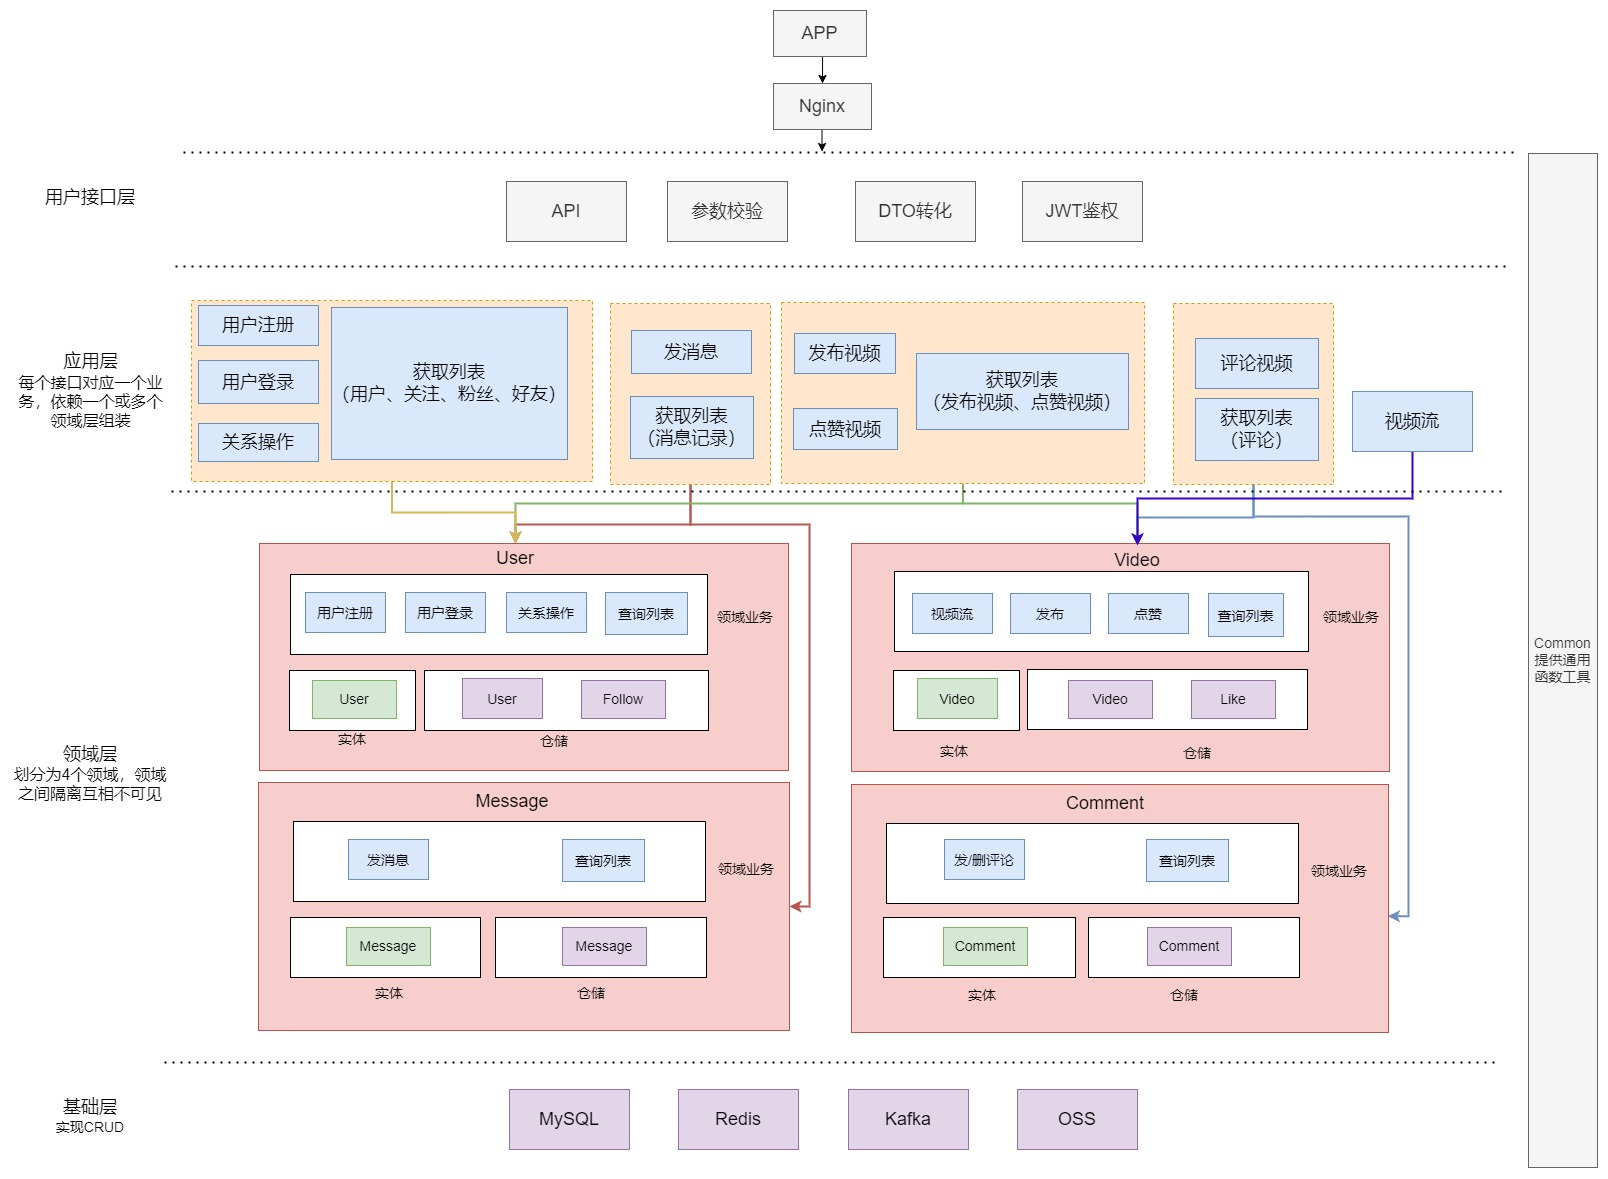
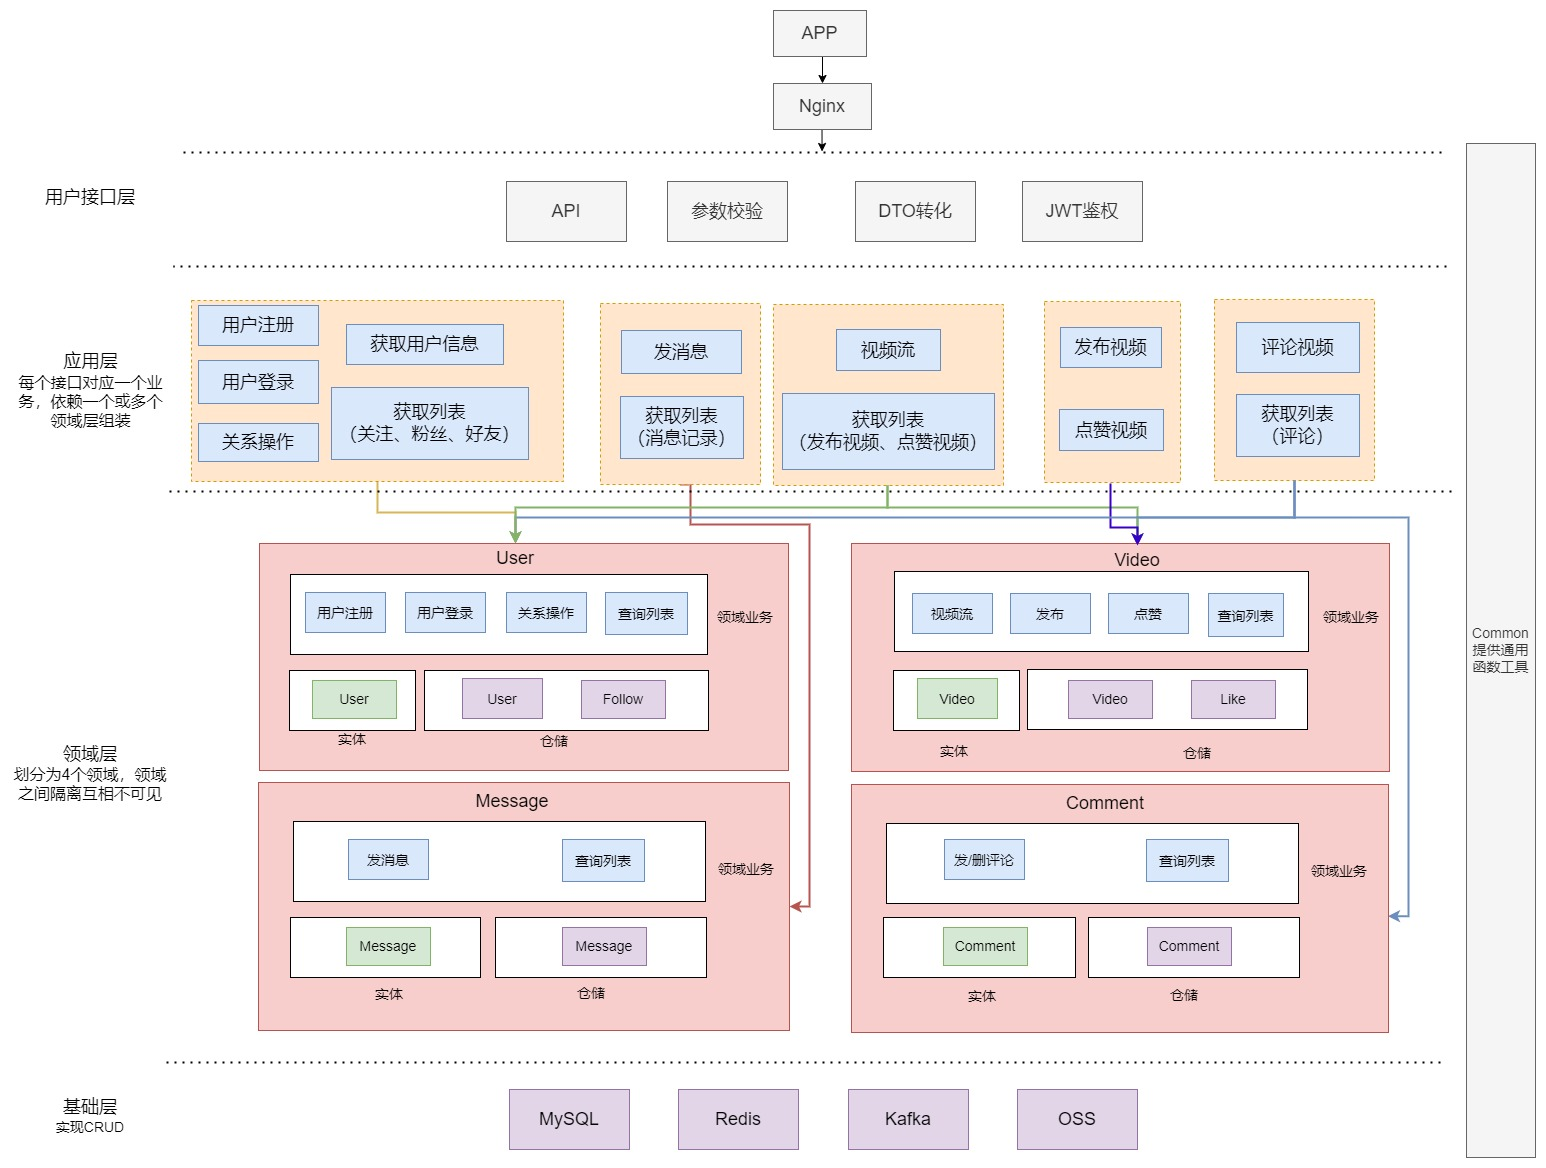
app层接口定义

diff --git a/application/userAppService.go b/application/userAppService.go
@@ -7,5 +7,11 @@ import (
 
 type UserAppService interface {
 	GetUser(c *gin.Context, appUserID int64, userID int64) (user *bizdto.User, err error)
-	CreateUser(c *gin.Context, appUserID int64, userID int64) (user *bizdto.User, err error)
+	CreateUser(c *gin.Context, username string, password string) (userID int64, err error)
+	CheckUser(c *gin.Context, username string, password string) (userID int64, err error)
+	FollowUser(c *gin.Context, fanID int64, toUserID int64) (err error)
+	UnFollowUser(c *gin.Context, fanID int64, toUserID int64) (err error)
+	GetFollowList(c *gin.Context, appUserID int64, userID int64) (userList []*bizdto.User, err error)
+	GetFanList(c *gin.Context, appUserID int64, userID int64) (userList []*bizdto.User, err error)
+	GetFriendList(c *gin.Context, appUserID int64, userID int64) (userList []*bizdto.User, err error)
 }

diff --git a/application/videoAppService.go b/application/videoAppService.go
@@ -1,1 +1,15 @@
 package application
+
+import (
+	"douyin/types/bizdto"
+	"github.com/gin-gonic/gin"
+)
+
+type VideoAppService interface {
+	PublishVideo(c *gin.Context, appUserID int64, title string) (err error)
+	LikeVideo(c *gin.Context, appUserID int64, videoID int64) (err error)
+	UnLikeVideo(c *gin.Context, appUserID int64, videoID int64) (err error)
+	GetVideoList(c *gin.Context, appUserID int64, userID int64) (videoList []*bizdto.Video, err error)
+	GetLikeVideoList(c *gin.Context, appUserID int64, userID int64) (userList []*bizdto.Video, err error)
+	Feed(c *gin.Context, appUserID int64, latestTime int64) (videoList []*bizdto.Video, err error)
+}

diff --git a/cmd/inject.go b/cmd/inject.go
@@ -7,10 +7,21 @@ import (
 )
 
 var UserAppService app.UserAppService
+var VideoAppService app.VideoAppService
+var CommentAppService app.CommentAppService
+var MessageAppService app.MessageAppService
 
 func inject() {
 	fx.New(
 		fx.Provide(appImpl.NewUserAppService()),
 		fx.Populate(&UserAppService))
-
+	fx.New(
+		fx.Provide(appImpl.NewVideoAppService()),
+		fx.Populate(&VideoAppService))
+	fx.New(
+		fx.Provide(appImpl.NewCommentAppService()),
+		fx.Populate(&CommentAppService))
+	fx.New(
+		fx.Provide(appImpl.NewMessageAppService()),
+		fx.Populate(&MessageAppService))
 }

diff --git a/application/commentAppService.go b/application/commentAppService.go
@@ -1,1 +1,12 @@
 package application
+
+import (
+	"douyin/types/bizdto"
+	"github.com/gin-gonic/gin"
+)
+
+type CommentAppService interface {
+	CreateComment(c *gin.Context, appUserID int64, videoID int64, content string) (comment *bizdto.Comment, err error)
+	DeleteComment(c *gin.Context, commentID int64) (err error)
+	GetCommentList(c *gin.Context, appUserID int64, videoID int64) (commentList []*bizdto.Comment, err error)
+}

diff --git a/types/bizdto/video.go b/types/bizdto/video.go
@@ -1,1 +1,12 @@
 package bizdto
+
+type Video struct {
+	ID           int64  `json:"id"`
+	Author       *User  `json:"author"`
+	PlayAddr     string `json:"play_url"`
+	CoverAddr    string `json:"cover_url"`
+	LikeCount    int64  `json:"favorite_count"`
+	CommentCount int64  `json:"comment_count"`
+	IsFavorite   bool   `json:"is_favorite"`
+	Title        string `json:"title"`
+}

diff --git a/application/messageAppService.go b/application/messageAppService.go
@@ -1,1 +1,11 @@
 package application
+
+import (
+	"douyin/types/bizdto"
+	"github.com/gin-gonic/gin"
+)
+
+type MessageAppService interface {
+	CreateMessage(c *gin.Context, appUserID int64, toUserID int64, content string) (err error)
+	GetMessageList(c *gin.Context, appUserID int64, toUserID int64) (messageList []*bizdto.Message, err error)
+}

diff --git a/types/bizdto/comment.go b/types/bizdto/comment.go
@@ -1,1 +1,8 @@
 package bizdto
+
+type Comment struct {
+	ID         int64  `json:"id"`          // 评论id
+	User       *User  `json:"user"`        // 评论用户信息
+	Content    string `json:"content"`     // 评论内容
+	CreateDate string `json:"create_date"` // 评论发布日期，格式 mm-dd
+}

diff --git a/api/handlers/user.go b/api/handlers/user.go
@@ -1,14 +1,11 @@
 package handlers
 
 import (
-	"douyin/cmd"
 	"douyin/common/constant"
 	"douyin/types/bizdto"
 	respond "douyin/types/coredto"
 	"github.com/gin-gonic/gin"
 )
-
-var userService = cmd.UserAppService
 
 func GetUserInfo(c *gin.Context) {
 	appUserID := c.GetInt64(constant.IdentityKey)

diff --git a/types/bizdto/message.go b/types/bizdto/message.go
@@ -1,1 +1,7 @@
 package bizdto
+
+type Message struct {
+	ID         int64  `json:"id"`          // 消息id
+	Content    string `json:"content"`     // 消息内容
+	CreateTime string `json:"create_time"` // 消息发送时间，格式 yyyy-MM-dd HH:MM:ss
+}

diff --git a/api/handlers/injectService.go b/api/handlers/injectService.go
@@ -1,0 +1,8 @@
+package handlers
+
+import "douyin/cmd"
+
+var userService = cmd.UserAppService
+var videoService = cmd.VideoAppService
+var commentService = cmd.CommentAppService
+var messageService = cmd.MessageAppService

diff --git a/application/impl/commentAppServiceImpl.go b/application/impl/commentAppServiceImpl.go
@@ -1,0 +1,8 @@
+package impl
+
+type CommentAppServiceImpl struct {
+}
+
+func NewCommentAppService() *CommentAppServiceImpl {
+	return new(CommentAppServiceImpl)
+}

diff --git a/application/impl/messageAppServiceImpl.go b/application/impl/messageAppServiceImpl.go
@@ -1,0 +1,8 @@
+package impl
+
+type MessageAppServiceImpl struct {
+}
+
+func NewMessageAppService() *MessageAppServiceImpl {
+	return new(MessageAppServiceImpl)
+}
